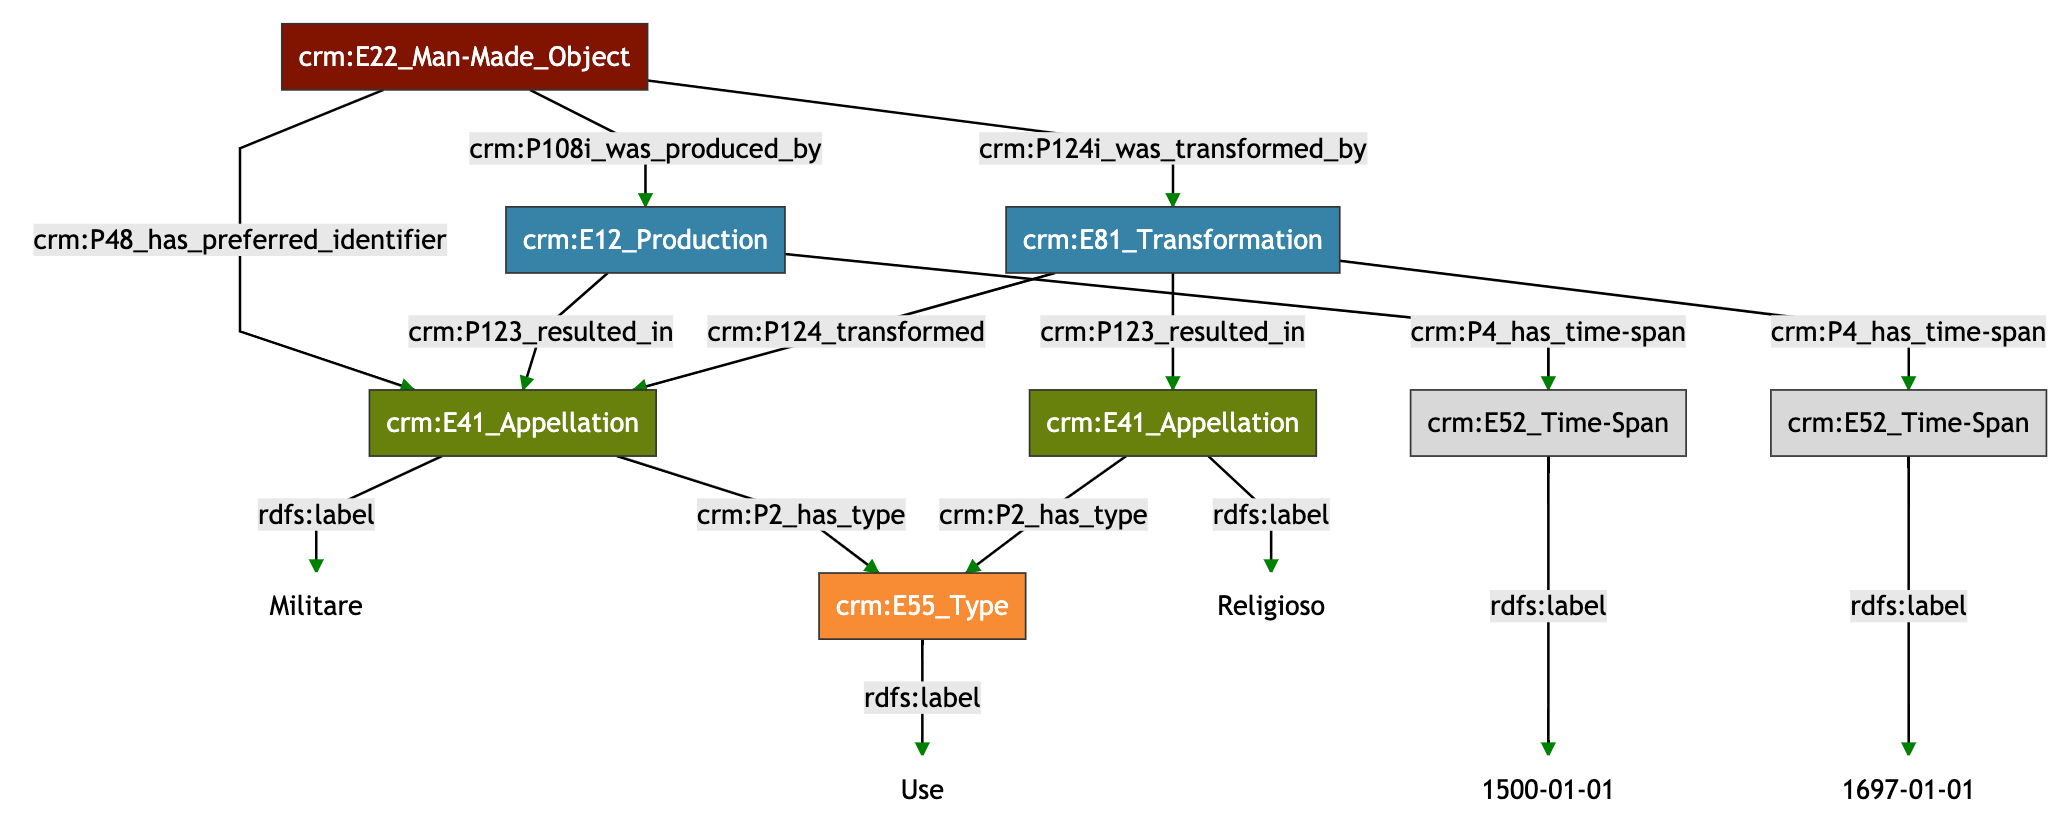
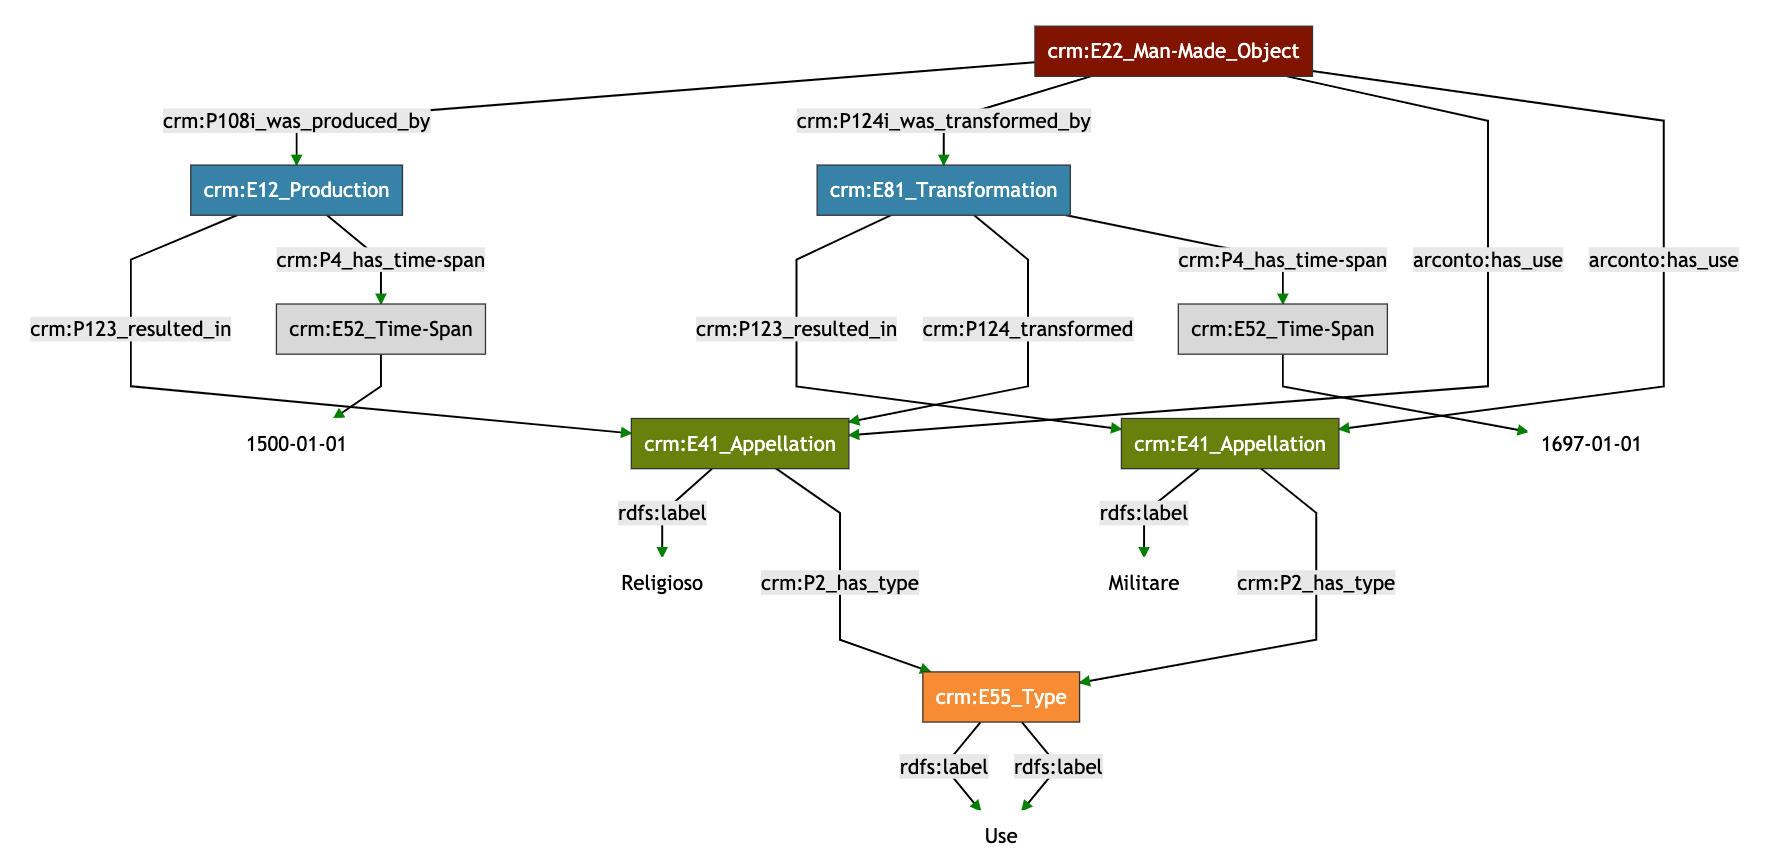
update use mmdc markdown

diff --git a/documentation/Builtworks/Uses.md b/documentation/Builtworks/Uses.md
@@ -1,32 +1,52 @@
 ```mermaid
 graph TD;
-  bw[crm:E22_Man-Made_Object]--crm:P48_has_preferred_identifier --> appellation1[crm:E41_Appellation]
+  bw[crm:E22_Man-Made_Object]
+  construction[crm:E12_Production] 
+  transformation[crm:E81_Transformation]
+  appellation1[crm:E41_Appellation]
+  appellation2[crm:E41_Appellation]
+  construction_date[crm:E52_Time-Span]
+  transformation_date[crm:E52_Time-Span]
+  type[crm:E55_Type]
+  appellation1_lbl[Religioso]
+  appellation2_lbl[Militare]
+  type_lbl[Use]
+  transformation_date_eob[1697-01-01]
+  construction_date_eob[1500-01-01]
 
-  bw --crm:P108i_was_produced_by--> construction[crm:E12_Production] -- crm:P123_resulted_in --> appellation1
+  bw--crm:P108i_was_produced_by-->construction
+  bw--crm:P124i_was_transformed_by-->transformation
 
-  construction --crm:P4_has_time-span--> construction_date[crm:E52_Time-Span] --rdfs:label---> lbl6[1500-01-01]
+    bw--arconto:has_use-->appellation1
+  bw--arconto:has_use-->appellation2
 
-  appellation1--rdfs:label-->lbl1[Militare]
-  appellation1--crm:P2_has_type-->type1[crm:E55_Type]--rdfs:label-->lbl2[Use]
+  construction--crm:P123_resulted_in--->appellation1
+  transformation--crm:P123_resulted_in--->appellation2
+  transformation--crm:P124_transformed-->appellation1
 
-  bw -- crm:P124i_was_transformed_by --> transformation1[crm:E81_Transformation] -- crm:P124_transformed --> appellation1
+  appellation1--rdfs:label-->appellation1_lbl
+  appellation2--rdfs:label-->appellation2_lbl
 
-  transformation1 -- crm:P123_resulted_in --> appellation2[crm:E41_Appellation] --rdfs:label --> lbl3[Religioso]
+  appellation1--crm:P2_has_type--->type--rdfs:label-->type_lbl
+  appellation2--crm:P2_has_type--->type--rdfs:label-->type_lbl
 
-  transformation1--crm:P4_has_time-span--> transformation1_date[crm:E52_Time-Span] --rdfs:label---> lbl5[1697-01-01]
+
+  transformation--crm:P4_has_time-span-->transformation_date
+  construction--crm:P4_has_time-span-->construction_date
+
+  transformation_date-->transformation_date_eob
+  construction_date-->construction_date_eob
 
 
-  appellation2 -- crm:P2_has_type --> type1[crm:E55_Type]
+  style appellation1_lbl fill:#fff,stroke:#fff
+  style appellation2_lbl fill:#fff,stroke:#fff
+  style type_lbl fill:#fff,stroke:#fff
+  style transformation_date_eob fill:#fff,stroke:#fff
+  style construction_date_eob fill:#fff,stroke:#fff
 
-  style lbl1 fill:#fff,stroke:#fff
-  style lbl2 fill:#fff,stroke:#fff
-  style lbl3 fill:#fff,stroke:#fff
-  style lbl6 fill:#fff,stroke:#fff
-  style lbl5 fill:#fff,stroke:#fff
+  style type fill:#F88C34,color:#fff,stroke:#333
 
-  style type1 fill:#F88C34,color:#fff,stroke:#333
-
-  style transformation1 fill:#3783A8,stroke:#333,color:#fff
+  style transformation fill:#3783A8,stroke:#333,color:#fff
   style construction fill:#3783A8,stroke:#333,color:#fff
 
   style bw fill:#801401,stroke:#333,color:#fff
@@ -34,5 +54,5 @@ graph TD;
   style appellation2 fill:#68810C,stroke:#333,color:#fff
 
   style construction_date fill:#D8D8D8,stroke:#333
-  style transformation1_date fill:#D8D8D8,stroke:#333
+  style transformation_date fill:#D8D8D8,stroke:#333
 ```
